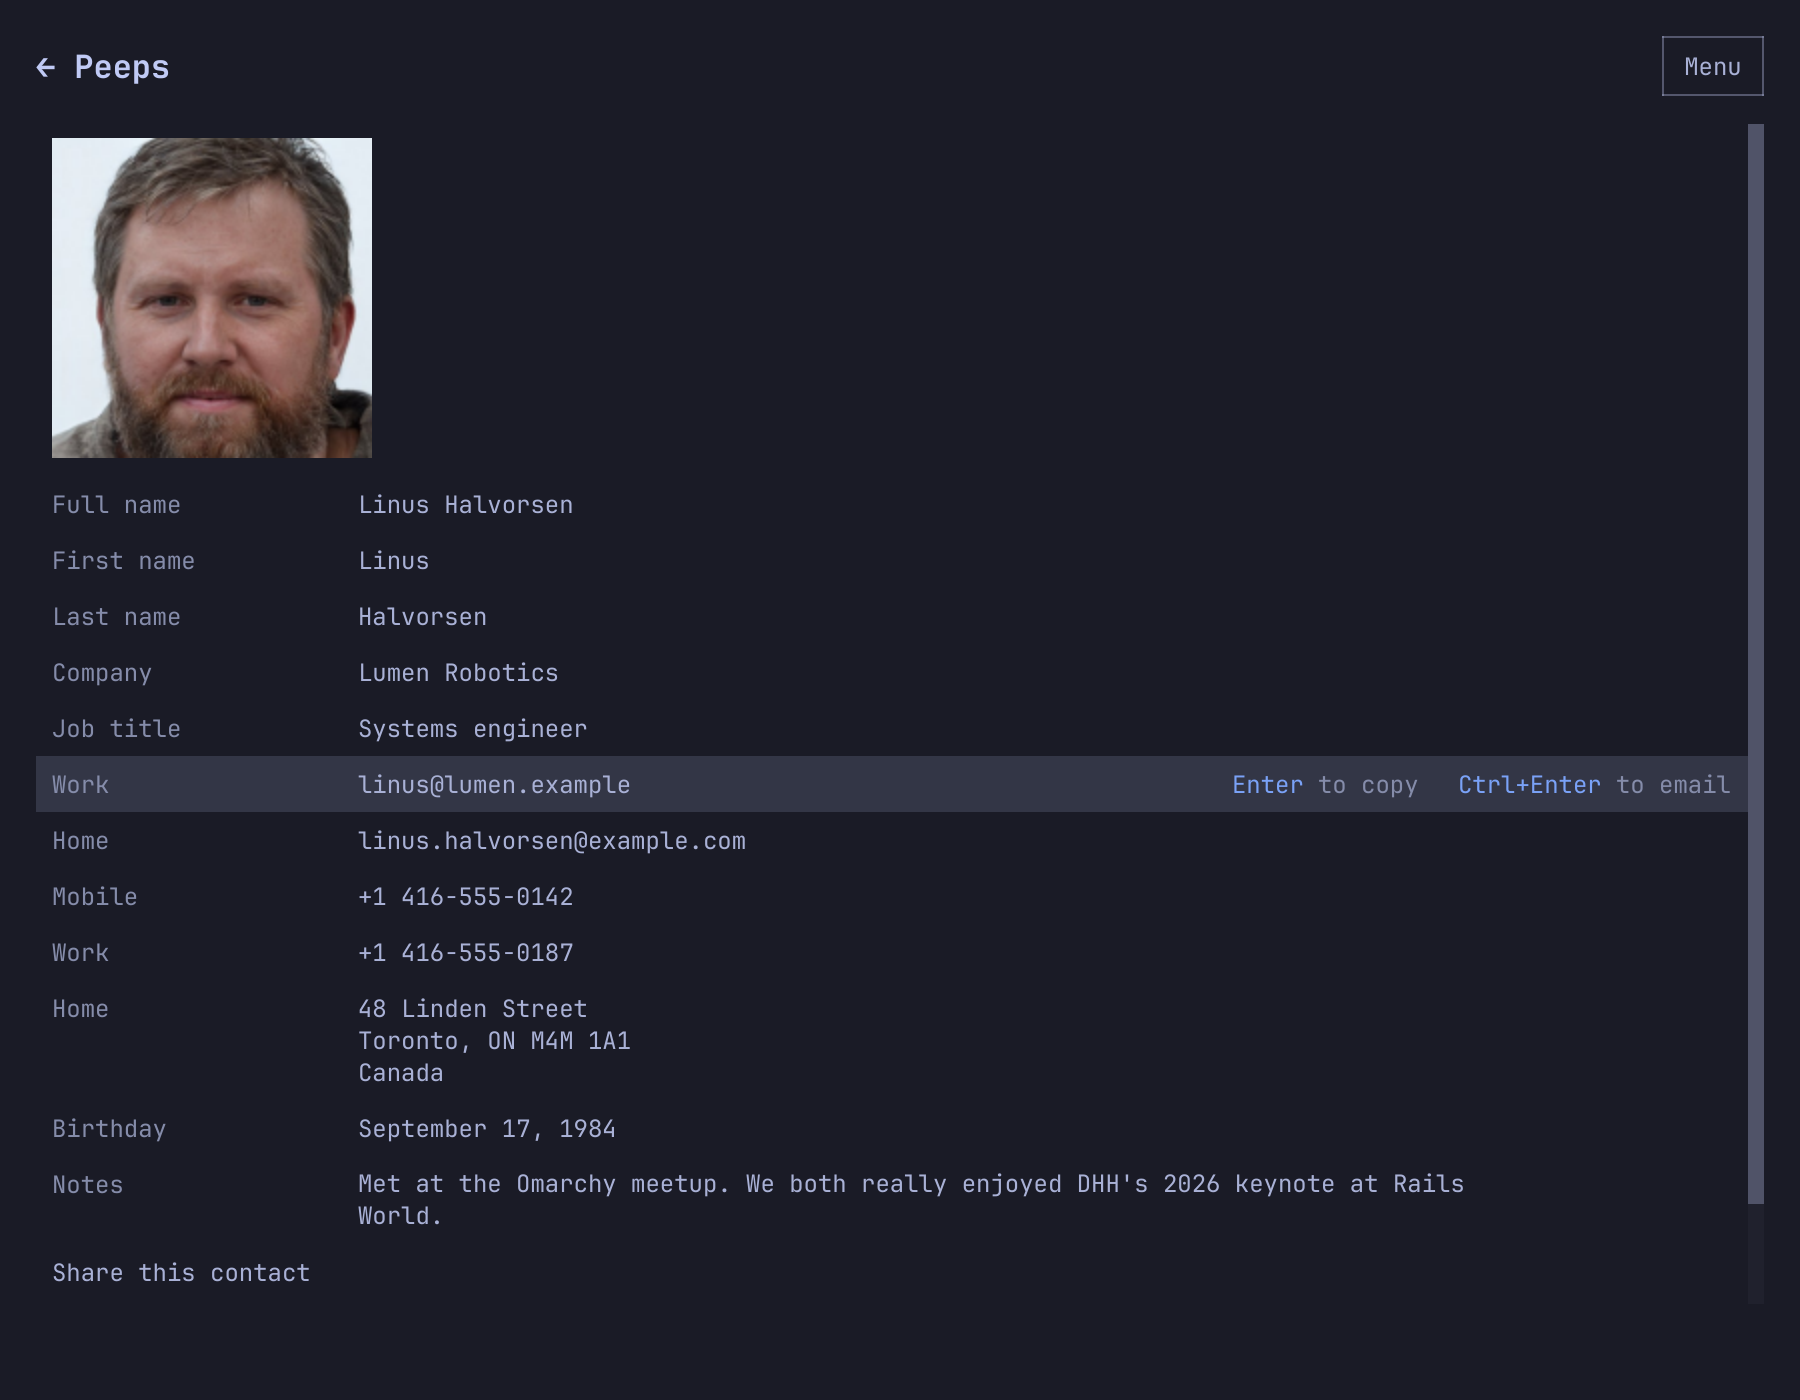
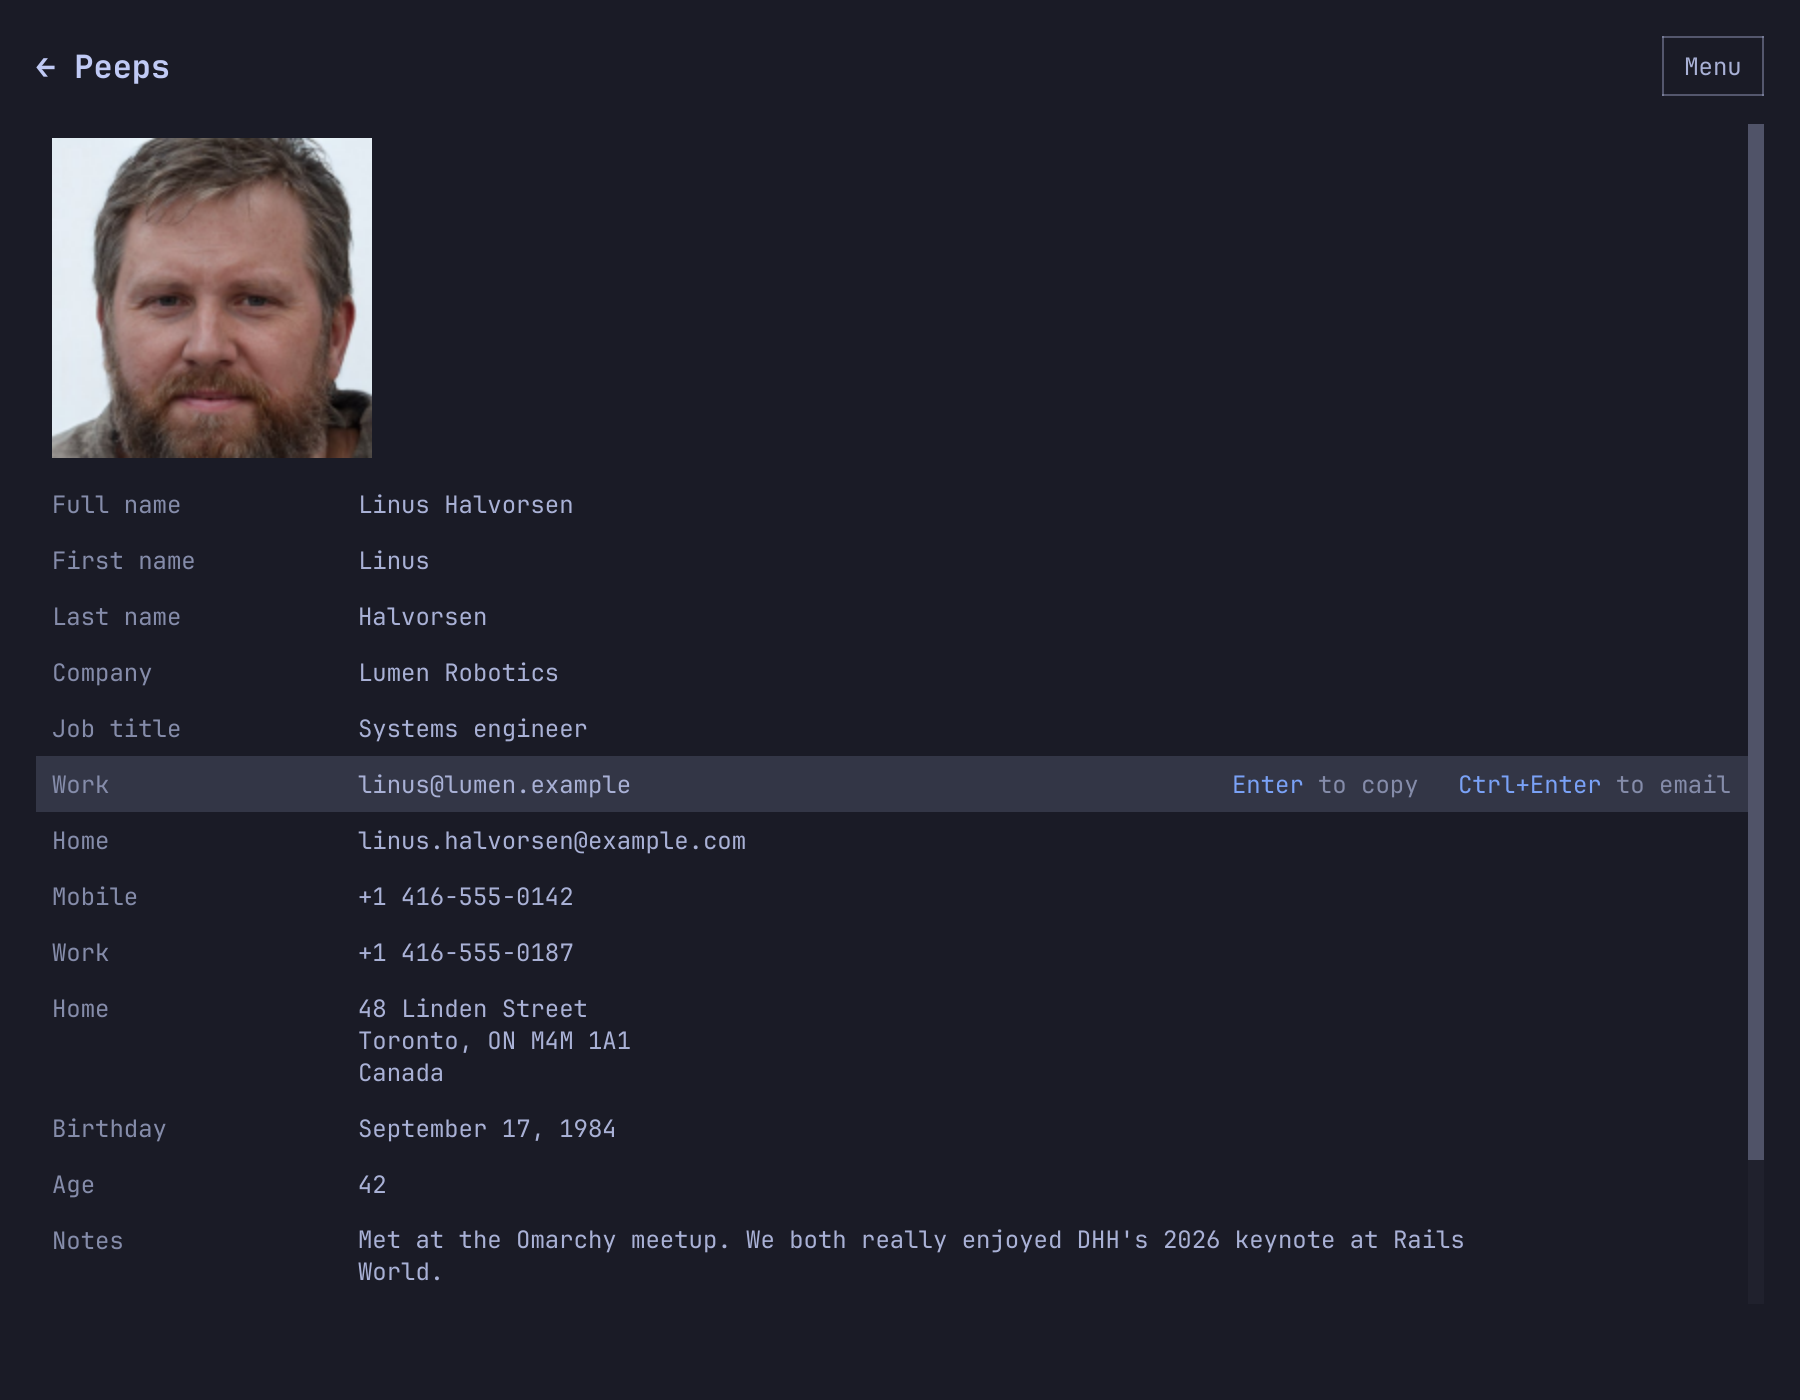
Show a contact's age under a birthday with a year
The window adds an Age row beneath the birthday, counted in months in
the first year, and peeps show prints it. The JSON has it as age, in
whole years or null, and --data accepts it back unchanged.

diff --git a/tests/tests.cpp b/tests/tests.cpp
@@ -315,6 +315,31 @@ void SearchTests::postalAddressBreaksAfterTheStreet() {
   QCOMPARE(formatted.display(), QStringLiteral("Somewhere\nElse"));
 }
 
+void SearchTests::countsAgeFromBirthday() {
+  const QDate today(2026, 10, 30);
+  const auto age = [&](int year, int month, int day) { return contacts::DateValue{year, month, day, {}}.ageOn(today); };
+  QCOMPARE(age(1984, 9, 17), QStringLiteral("42"));
+  // The day before a birthday, and the day of it.
+  QCOMPARE(age(1984, 10, 31), QStringLiteral("41"));
+  QCOMPARE(age(1984, 10, 30), QStringLiteral("42"));
+  QCOMPARE(contacts::DateValue({1984, 10, 31, {}}).yearsOn(today), std::optional<int>(41));
+  // The first year counts months.
+  QCOMPARE(age(2025, 10, 31), QStringLiteral("11 months"));
+  QCOMPARE(age(2026, 9, 30), QStringLiteral("1 month"));
+  QCOMPARE(age(2026, 10, 2), QStringLiteral("Under a month"));
+  QCOMPARE(contacts::DateValue({2026, 10, 2, {}}).yearsOn(today), std::optional<int>(0));
+  // February 29 comes round on March 1 in other years.
+  const contacts::DateValue leap{2000, 2, 29, {}};
+  QCOMPARE(leap.ageOn(QDate(2025, 2, 28)), QStringLiteral("24"));
+  QCOMPARE(leap.ageOn(QDate(2025, 3, 1)), QStringLiteral("25"));
+  QCOMPARE(leap.ageOn(QDate(2024, 2, 29)), QStringLiteral("24"));
+  // No year, a date that does not exist, a date to come, or free text: no age.
+  QCOMPARE(age(0, 9, 17), QString());
+  QCOMPARE(age(1990, 2, 30), QString());
+  QCOMPARE(age(2027, 1, 1), QString());
+  QCOMPARE(contacts::DateValue({0, 0, 0, QStringLiteral("Spring 1990")}).yearsOn(today), std::nullopt);
+}
+
 void SearchTests::displayNameAndInitials() {
   const auto ada = person(QStringLiteral("people/ada"), QStringLiteral("Ada"), QStringLiteral("Lovelace"),
                           QStringLiteral("ada@example.com"));
@@ -1732,6 +1757,9 @@ void LayoutTests::copyNamesTheField() {
   };
   QVERIFY(copyLabel(QStringLiteral("Birthday")));
   QCOMPARE(toastText(), QStringLiteral("Copied birthday"));
+  QVERIFY(copyLabel(QStringLiteral("Age")));
+  QCOMPARE(toastText(), QStringLiteral("Copied age"));
+  QCOMPARE(QGuiApplication::clipboard()->text(), contact.birthday.ageOn(QDate::currentDate()));
   QVERIFY(copyLabel(QStringLiteral("First name")));
   QCOMPARE(toastText(), QStringLiteral("Copied first name"));
   QVERIFY(copyLabel(QStringLiteral("Work")));

diff --git a/src/cli.cpp b/src/cli.cpp
@@ -142,7 +142,8 @@ QString commandHelp(const QString& command) {
         "\n"
         "  peeps show ID [--json]\n"
         "\n"
-        "JSON is the object --data accepts, plus id, name, etag, and photo_url.\n");
+        "JSON is the object --data accepts, plus id, name, etag, photo_url, and\n"
+        "age, the whole years since a birthday that has a year, or null.\n");
   }
   if (command == QLatin1String("export")) {
     return QStringLiteral(
@@ -639,6 +640,7 @@ bool applyJson(const QJsonObject& object, Patch& patch, QString& error) {
                              QStringLiteral("etag"),
                              QStringLiteral("name"),
                              QStringLiteral("photo_url"),
+                             QStringLiteral("age"),
                              QStringLiteral("prefix"),
                              QStringLiteral("given_name"),
                              QStringLiteral("middle_name"),
@@ -719,6 +721,8 @@ QJsonObject contactJson(const Contact& contact) {
   object.insert(QStringLiteral("other_organizations"), organizations);
   object.insert(QStringLiteral("notes"), contact.notes);
   object.insert(QStringLiteral("birthday"), contact.birthday.isoText());
+  const std::optional<int> age = contact.birthday.yearsOn(QDate::currentDate());
+  object.insert(QStringLiteral("age"), age ? QJsonValue(*age) : QJsonValue());
   object.insert(QStringLiteral("photo_url"), contact.photoUrl);
   object.insert(QStringLiteral("emails"), labeledArray(contact.emails));
   object.insert(QStringLiteral("phones"), labeledArray(contact.phones));
@@ -811,6 +815,7 @@ QString contactText(const Contact& contact) {
     appendField(lines, QStringLiteral("Address"), shown);
   }
   appendField(lines, QStringLiteral("Birthday"), contact.birthday.display());
+  appendField(lines, QStringLiteral("Age"), contact.birthday.ageOn(QDate::currentDate()));
   for (const LabeledValue& url : contact.urls) {
     appendField(lines, QStringLiteral("Website"), url.label.isEmpty() ? url.value : url.value + QStringLiteral("  ") + url.label);
   }

diff --git a/tests/cli_tests.cpp b/tests/cli_tests.cpp
@@ -316,6 +316,7 @@ void CliTests::jsonDataRoundTrip() {
   address.city = QStringLiteral("London");
   contact.addresses.append(address);
   contact.customs.append({QStringLiteral("Ann"), QStringLiteral("Spouse"), {}});
+  contact.birthday = {1815, 12, 10, {}};
   session.contacts = {contact};
   contacts::Contact sent;
   session.update = [&](const contacts::Contact& next) {
@@ -327,6 +328,10 @@ void CliTests::jsonDataRoundTrip() {
 
   const auto shown = run({QStringLiteral("show"), QStringLiteral("people/c1"), QStringLiteral("--json")}, session, true);
   QCOMPARE(shown.code, contacts::kCliOk);
+  const QString age = contact.birthday.ageOn(QDate::currentDate());
+  QCOMPARE(objectOf(shown).value(QStringLiteral("age")).toInt(), age.toInt());
+  QVERIFY(run({QStringLiteral("show"), QStringLiteral("people/c1")}, session, true).out.contains(QStringLiteral("Age").leftJustified(16) + age));
+  // The age is read-only, so the printed object goes back in as it is.
   QJsonObject patch = objectOf(shown);
   patch.insert(QStringLiteral("notes"), QStringLiteral("From JSON"));
   const QByteArray body = QJsonDocument(patch).toJson(QJsonDocument::Compact);
@@ -343,6 +348,7 @@ void CliTests::jsonDataRoundTrip() {
   QCOMPARE(sent.emails.first().value, QStringLiteral("ada@example.com"));
   QCOMPARE(sent.customs.first().label, QStringLiteral("Spouse"));
   QCOMPARE(sent.customs.first().value, QStringLiteral("Ann"));
+  QCOMPARE(sent.birthday, contact.birthday);
 
   session.stdinBytes = QByteArrayLiteral("{\"nope\":1}");
   const auto badField = run({QStringLiteral("update"), QStringLiteral("people/c1"), QStringLiteral("--data"), QStringLiteral("-")},

diff --git a/src/contact.cpp b/src/contact.cpp
@@ -111,6 +111,23 @@ QString DateValue::isoText() const {
   return year > 0 ? QStringLiteral("%1-%2").arg(year, 4, 10, QLatin1Char('0')).arg(monthDay) : monthDay;
 }
 
+std::optional<int> DateValue::yearsOn(const QDate& today) const {
+  const QDate born(year, month, day);
+  if (year <= 0 || !born.isValid() || born > today) return std::nullopt;
+  // Someone born on February 29 turns a year older on March 1 in other years.
+  const bool hadBirthday = today.month() > month || (today.month() == month && today.day() >= day);
+  return today.year() - year - (hadBirthday ? 0 : 1);
+}
+
+QString DateValue::ageOn(const QDate& today) const {
+  const std::optional<int> years = yearsOn(today);
+  if (!years) return {};
+  if (*years > 0) return QString::number(*years);
+  const int months = (today.year() - year) * 12 + today.month() - month - (today.day() < day ? 1 : 0);
+  if (months <= 0) return QStringLiteral("Under a month");
+  return months == 1 ? QStringLiteral("1 month") : QStringLiteral("%1 months").arg(months);
+}
+
 bool PostalAddress::isEmpty() const {
   return street.trimmed().isEmpty() && extended.trimmed().isEmpty() && poBox.trimmed().isEmpty() && city.trimmed().isEmpty() &&
          region.trimmed().isEmpty() && postalCode.trimmed().isEmpty() && country.trimmed().isEmpty() && formatted.trimmed().isEmpty();

diff --git a/src/contact.h b/src/contact.h
@@ -1,7 +1,10 @@
 #pragma once
 
+#include <QDate>
 #include <QList>
 #include <QString>
+
+#include <optional>
 
 namespace contacts {
 
@@ -27,6 +30,12 @@ struct DateValue {
   QString display() const;
   // "1815-12-10", or "12-10" without a year, for typing and for JSON.
   QString isoText() const;
+  // Whole years from this date to `today`. Nothing without a full date, or
+  // for a date still to come.
+  std::optional<int> yearsOn(const QDate& today) const;
+  // The age of someone born on this date, for reading: "42", or "5 months"
+  // in their first year. Empty when yearsOn() is.
+  QString ageOn(const QDate& today) const;
 };
 
 struct PostalAddress {

diff --git a/src/mainwindow.cpp b/src/mainwindow.cpp
@@ -963,6 +963,8 @@ void MainWindow::renderDetail() {
              EditorFocus{EditorField::Address, i});
   }
   addField(QStringLiteral("Birthday"), shown.birthday.display(), FieldAction::Copy, false, EditorFocus{EditorField::Birthday, 0});
+  addField(QStringLiteral("Age"), shown.birthday.ageOn(QDate::currentDate()), FieldAction::Copy, false,
+           EditorFocus{EditorField::Birthday, 0});
   for (int i = 0; i < shown.urls.size(); ++i) {
     const QString label = labelDisplay(LabelField::Other, shown.urls.at(i));
     addField(label.isEmpty() ? QStringLiteral("Website") : label, shown.urls.at(i).value, FieldAction::Copy, false,

diff --git a/tests/tests.h b/tests/tests.h
@@ -26,6 +26,7 @@ class SearchTests : public QObject {
   Q_OBJECT
  private slots:
   void displayNameAndInitials();
+  void countsAgeFromBirthday();
   void postalAddressBreaksAfterTheStreet();
   void plainTextSkipsThePhoto();
   void draftValidation();

diff --git a/README.md b/README.md
@@ -79,6 +79,8 @@ Launching Peeps again brings the open window forward instead of opening a second
 
 Copying a field names it. A birthday says "Copied birthday". A work address says "Copied work email".
 
+A birthday with a year shows the age beneath it, in months during the first year. `peeps show` prints it too, and `--json` has it as `age` in whole years, or `null` without a birth year.
+
 ### Editing
 
 The editor groups fields the way people look for them. The photo sits beside first name, last name, company, and job title. Email, phone, address, and notes follow, each under its own heading with a `+ Add` line beneath. Nickname, birthday, websites, related people, other companies, and custom fields wait behind More fields, which opens by itself when a contact already has one of them.

diff --git a/skills/peeps/SKILL.md b/skills/peeps/SKILL.md
@@ -31,7 +31,7 @@ read the result.
 
 ```bash
 peeps search maya --json                # {"query","total","count","contacts":[{"id","name","email","phone","organization","score"}]}
-peeps show people/c123 --json           # every field of one contact
+peeps show people/c123 --json           # every field of one contact, plus "age" when the birthday has a year
 peeps list --json | jq '.contacts[]'    # everyone: id, name, email, phone, organization
 peeps export people/c123 > maya.vcf     # a vCard
 ```
